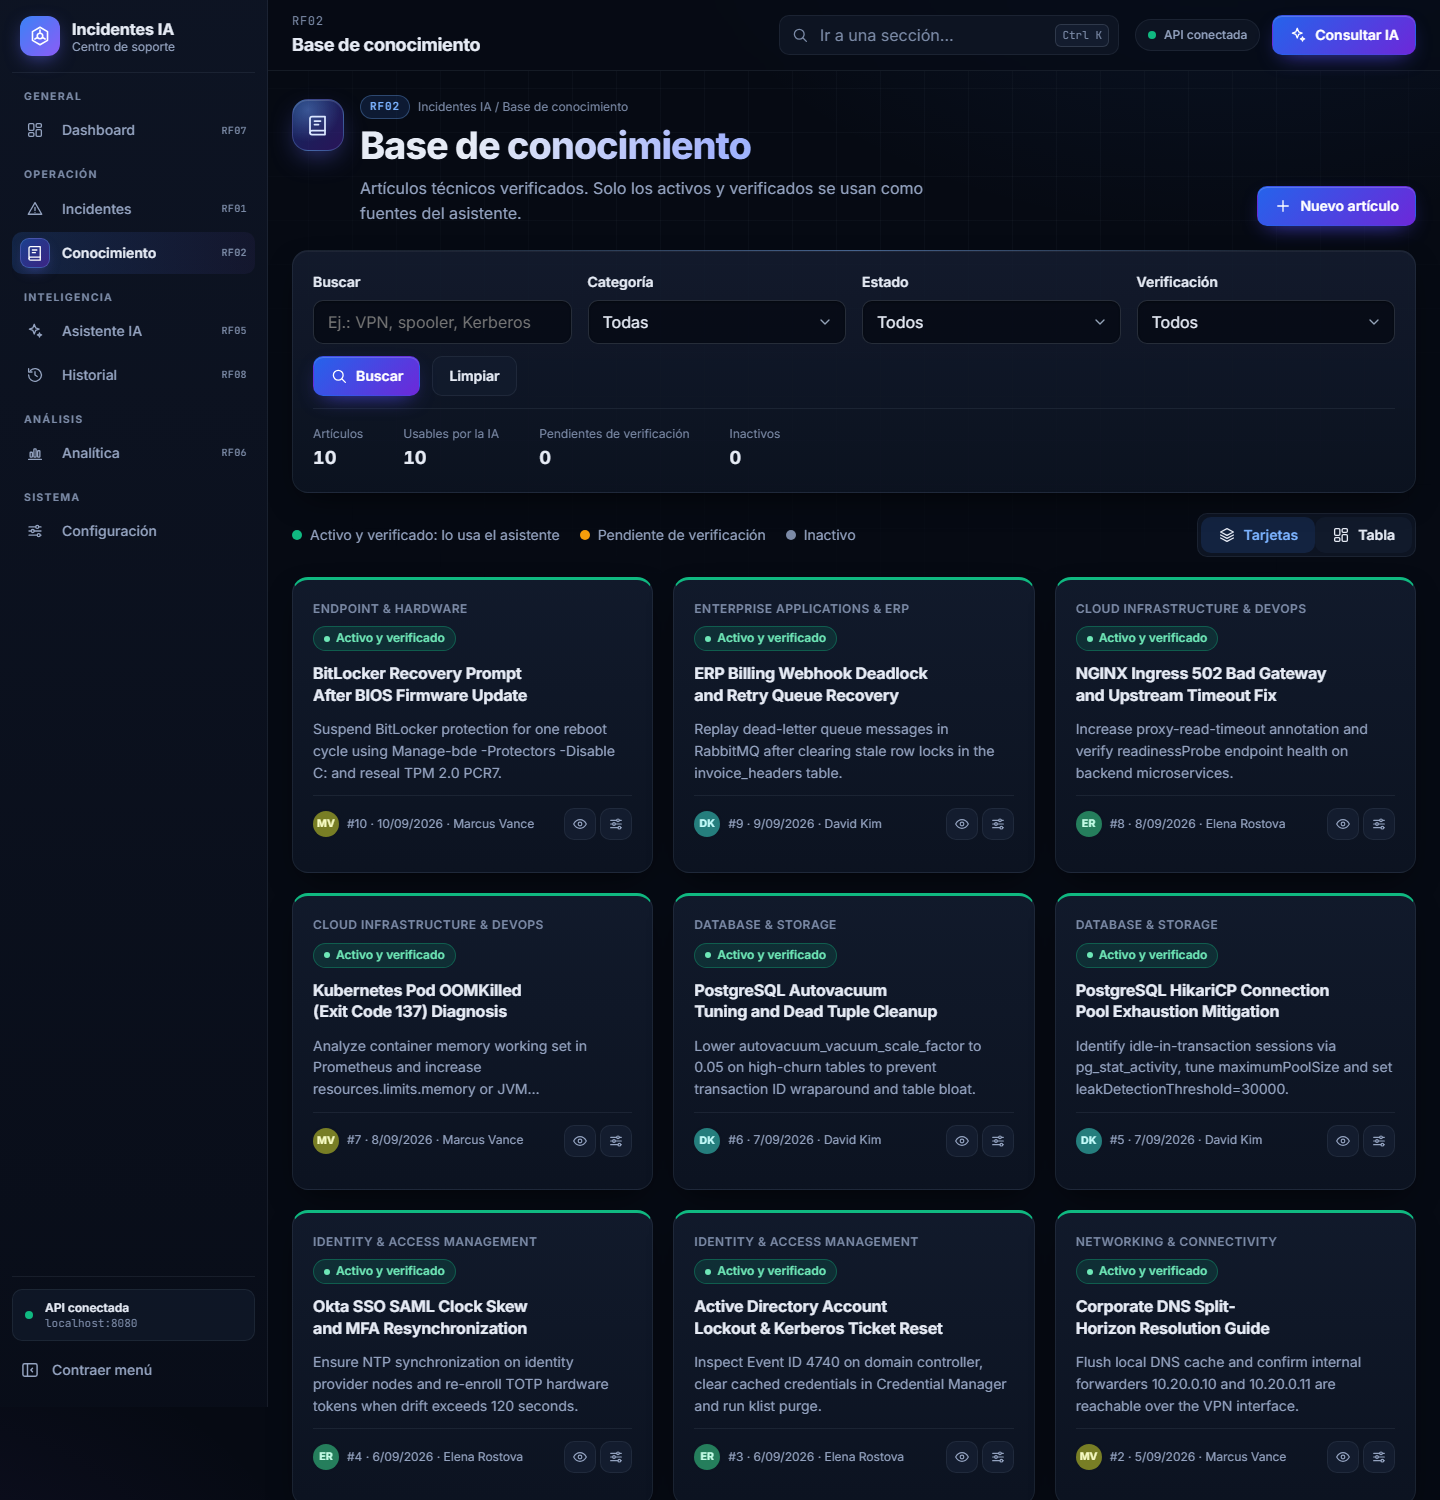
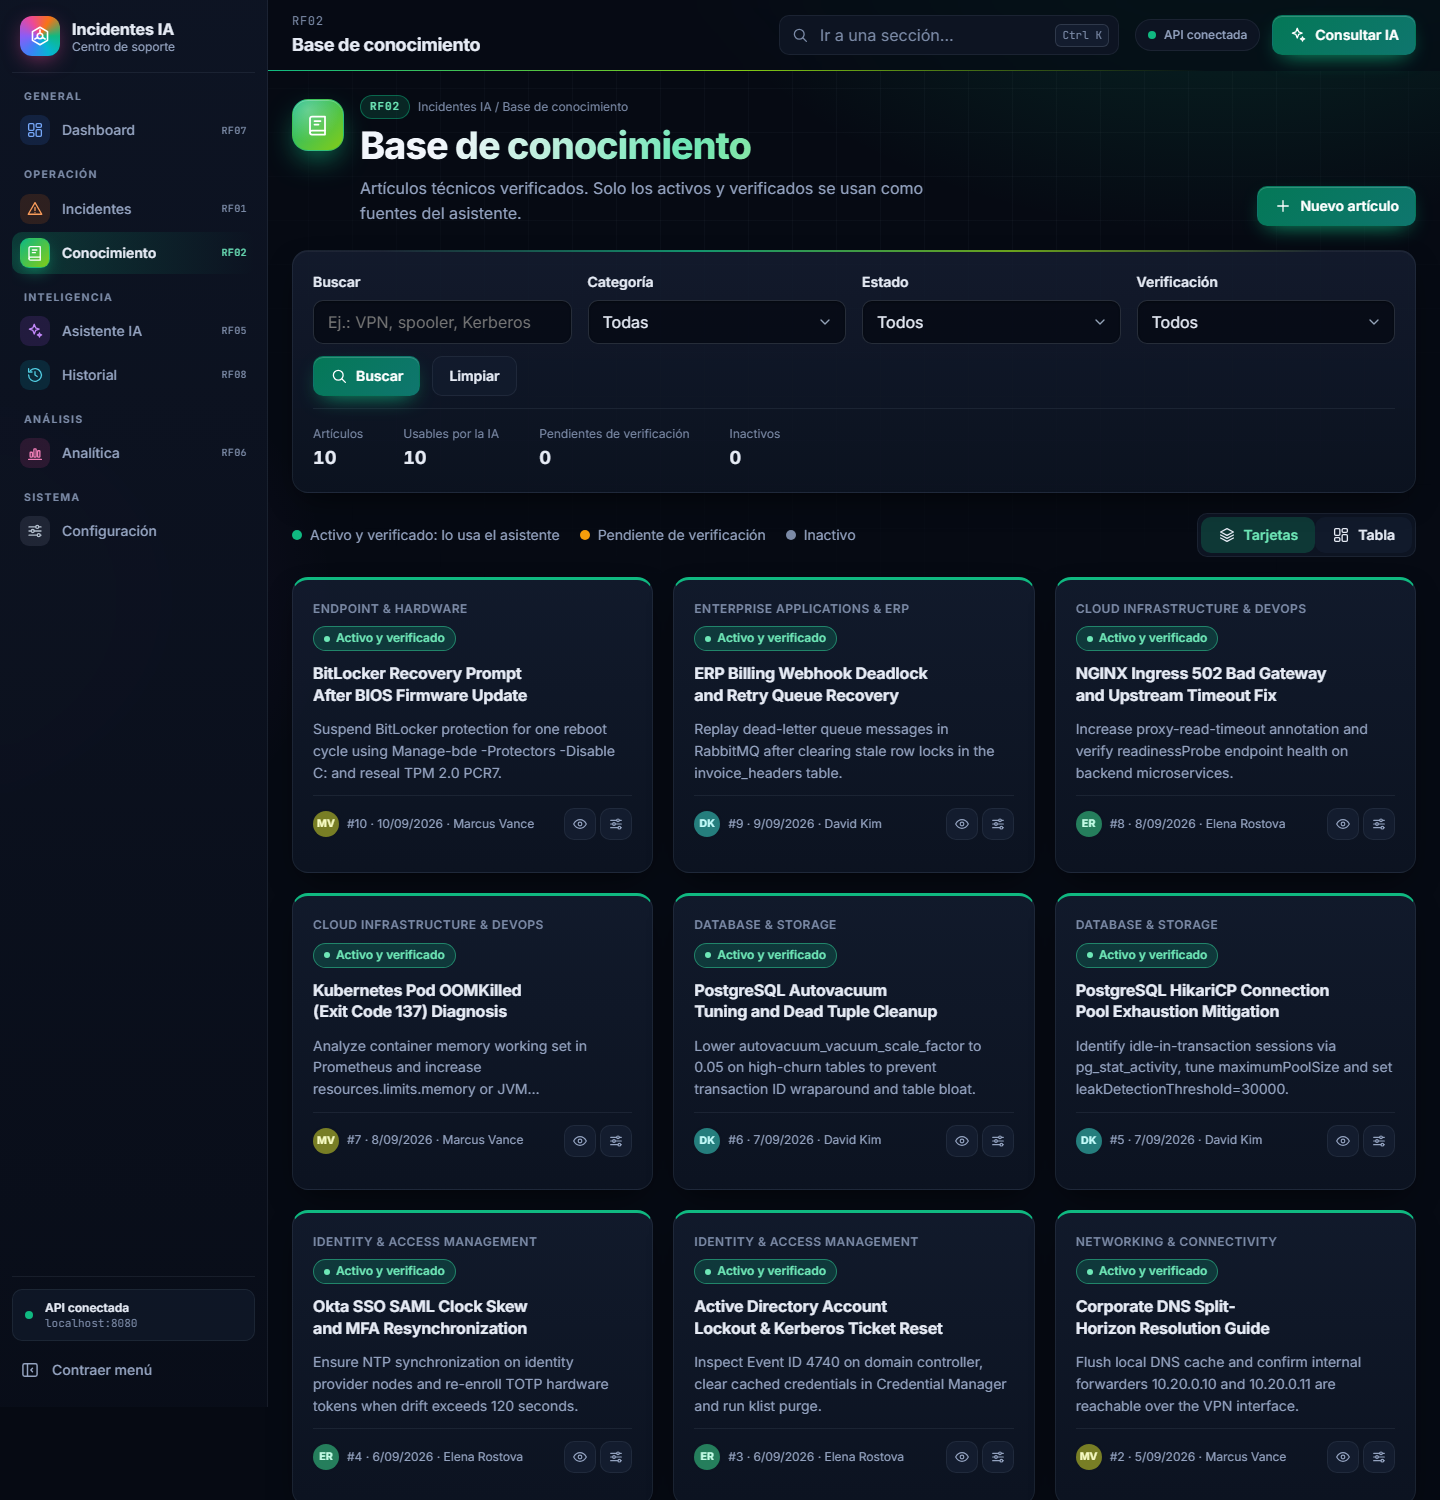
feat(frontend): give each module its own accent color
Add a color layer (css/color.css) driven by the active route: sidebar items, page headers, cards, primary buttons, table headers and empty states take the module's hue. KPI cards get tinted backgrounds, colored icons and new info/pink tones; badges and the dashboard hero are more vivid. Evidence screenshots refreshed.

diff --git a/frontend/css/color.css b/frontend/css/color.css
@@ -1,0 +1,279 @@
+/* ==========================================================
+   Capa de color: cada módulo tiene su propio acento.
+   El router pone <html data-module="ruta"> y esta hoja ajusta
+   la sidebar, el encabezado, las tarjetas y los botones.
+   Se carga al final para sobrescribir los estilos base.
+   ========================================================== */
+
+/* ---------- Paleta por módulo ----------
+   --module / --module-2: acento y su pareja del degradado.
+   --module-text: versión clara para texto sobre fondo oscuro (AA).
+   --module-btn: tonos oscuros para el botón (texto blanco AA). */
+:root {
+  --module: #3b82f6;
+  --module-2: #06b6d4;
+  --module-text: #93c5fd;
+  --module-btn: linear-gradient(135deg, #2563eb 0%, #0e7490 100%);
+
+  --info: #06b6d4;
+  --info-text: #67e8f9;
+  --info-soft: rgba(6, 182, 212, 0.16);
+  --pink: #ec4899;
+  --pink-text: #f9a8d4;
+  --pink-soft: rgba(236, 72, 153, 0.16);
+
+  /* Fondo con más color */
+  --glow-primary: rgba(59, 130, 246, 0.18);
+  --glow-accent: rgba(168, 85, 247, 0.16);
+}
+
+:root[data-module="incidentes"] {
+  --module: #f97316;
+  --module-2: #f43f5e;
+  --module-text: #fdba74;
+  --module-btn: linear-gradient(135deg, #c2410c 0%, #be123c 100%);
+}
+
+:root[data-module="conocimiento"] {
+  --module: #10b981;
+  --module-2: #84cc16;
+  --module-text: #6ee7b7;
+  --module-btn: linear-gradient(135deg, #047857 0%, #0f766e 100%);
+}
+
+:root[data-module="asistente"] {
+  --module: #a855f7;
+  --module-2: #ec4899;
+  --module-text: #d8b4fe;
+  --module-btn: linear-gradient(135deg, #7e22ce 0%, #be185d 100%);
+}
+
+:root[data-module="historial"] {
+  --module: #06b6d4;
+  --module-2: #6366f1;
+  --module-text: #67e8f9;
+  --module-btn: linear-gradient(135deg, #0e7490 0%, #4338ca 100%);
+}
+
+:root[data-module="analitica"] {
+  --module: #ec4899;
+  --module-2: #f59e0b;
+  --module-text: #f9a8d4;
+  --module-btn: linear-gradient(135deg, #be185d 0%, #b45309 100%);
+}
+
+:root[data-module="configuracion"],
+:root[data-module="componentes"] {
+  --module: #64748b;
+  --module-2: #3b82f6;
+  --module-text: #cbd5e1;
+  --module-btn: linear-gradient(135deg, #475569 0%, #1d4ed8 100%);
+}
+
+/* ---------- Fondo ---------- */
+body {
+  background-image:
+    radial-gradient(60rem 40rem at 85% -10%, color-mix(in srgb, var(--module) 22%, transparent), transparent 60%),
+    radial-gradient(45rem 32rem at 40% 120%, color-mix(in srgb, var(--module-2) 14%, transparent), transparent 60%),
+    radial-gradient(50rem 35rem at -10% 40%, var(--glow-accent), transparent 60%);
+  transition: background-image var(--dur-slow);
+}
+
+/* Franja de color bajo la barra superior */
+.topbar {
+  border-image: linear-gradient(90deg, var(--module), var(--module-2), transparent 80%) 1;
+}
+
+/* ---------- Marca ---------- */
+.brand-mark {
+  background: conic-gradient(from 210deg, #3b82f6, #8b5cf6, #ec4899, #f97316, #10b981, #06b6d4, #3b82f6);
+  box-shadow: 0 6px 22px -6px rgba(236, 72, 153, 0.7);
+}
+
+/* ---------- Sidebar: cada sección con su color ---------- */
+.nav-link { --nav: #3b82f6; --nav-2: #06b6d4; }
+.nav-link[data-route="incidentes"] { --nav: #f97316; --nav-2: #f43f5e; }
+.nav-link[data-route="conocimiento"] { --nav: #10b981; --nav-2: #84cc16; }
+.nav-link[data-route="asistente"] { --nav: #a855f7; --nav-2: #ec4899; }
+.nav-link[data-route="historial"] { --nav: #06b6d4; --nav-2: #6366f1; }
+.nav-link[data-route="analitica"] { --nav: #ec4899; --nav-2: #f59e0b; }
+.nav-link[data-route="configuracion"] { --nav: #94a3b8; --nav-2: #3b82f6; }
+
+.nav-link__icon {
+  background: color-mix(in srgb, var(--nav) 14%, transparent);
+  color: color-mix(in srgb, var(--nav) 70%, #fff);
+}
+
+.nav-link:hover .nav-link__icon {
+  border-color: color-mix(in srgb, var(--nav) 40%, transparent);
+  background: color-mix(in srgb, var(--nav) 24%, transparent);
+}
+
+.nav-link[aria-current="page"] {
+  background: linear-gradient(90deg, color-mix(in srgb, var(--nav) 22%, transparent), transparent);
+}
+
+.nav-link[aria-current="page"] .nav-link__icon {
+  border-color: color-mix(in srgb, var(--nav) 55%, transparent);
+  background: linear-gradient(135deg, var(--nav), var(--nav-2));
+  box-shadow: 0 6px 18px -6px var(--nav);
+}
+
+.nav-link[aria-current="page"]::before {
+  background: linear-gradient(180deg, var(--nav), var(--nav-2));
+  box-shadow: 0 0 14px var(--nav);
+}
+
+.nav-link[aria-current="page"] .nav-link__rf {
+  color: color-mix(in srgb, var(--nav) 65%, #fff);
+}
+
+/* ---------- Encabezado de página ---------- */
+.page-header__icon {
+  border-color: color-mix(in srgb, var(--module) 45%, transparent);
+  background:
+    radial-gradient(circle at 30% 20%, rgba(255, 255, 255, 0.28), transparent 60%),
+    linear-gradient(135deg, var(--module), var(--module-2));
+  color: #fff;
+  box-shadow: 0 12px 32px -10px var(--module), inset 0 1px 0 rgba(255, 255, 255, 0.25);
+}
+
+.page-header__eyebrow {
+  border-color: color-mix(in srgb, var(--module) 45%, transparent);
+  background: color-mix(in srgb, var(--module) 16%, transparent);
+  color: var(--module-text);
+}
+
+.page-title {
+  background: linear-gradient(120deg, #f1f5fb 15%, var(--module-text) 55%, color-mix(in srgb, var(--module-2) 60%, #fff) 100%);
+  -webkit-background-clip: text;
+  background-clip: text;
+}
+
+/* ---------- Tarjetas ---------- */
+.card::before {
+  left: 8%;
+  right: 8%;
+  height: 2px;
+  background: linear-gradient(90deg, transparent, var(--module), var(--module-2), transparent);
+  opacity: 0.75;
+}
+
+/* ---------- Botón principal con el color del módulo ---------- */
+.btn--primary {
+  background: var(--module-btn);
+  box-shadow:
+    inset 0 1px 0 rgba(255, 255, 255, 0.18),
+    0 8px 22px -10px var(--module);
+}
+
+.btn--primary:hover {
+  box-shadow:
+    inset 0 1px 0 rgba(255, 255, 255, 0.18),
+    0 12px 30px -8px var(--module);
+}
+
+/* Foco y controles de formulario */
+.input:focus,
+.input:focus-visible {
+  border-color: var(--module);
+  box-shadow: 0 0 0 3px color-mix(in srgb, var(--module) 25%, transparent);
+}
+
+input[type="checkbox"],
+input[type="radio"] {
+  accent-color: var(--module);
+}
+
+/* ---------- KPI: fondo tintado, filo y valor de color ---------- */
+.kpi[data-tone="info"] { --kpi-color: var(--info); --kpi-soft: var(--info-soft); }
+.kpi[data-tone="pink"] { --kpi-color: var(--pink); --kpi-soft: var(--pink-soft); }
+
+.kpi {
+  border-color: color-mix(in srgb, var(--kpi-color) 22%, transparent);
+  background:
+    linear-gradient(160deg, color-mix(in srgb, var(--kpi-color) 14%, transparent) 0%, transparent 55%),
+    linear-gradient(180deg, rgba(20, 29, 48, 0.88), rgba(14, 21, 36, 0.88));
+}
+
+.kpi::after {
+  content: "";
+  position: absolute;
+  top: 0;
+  left: 0;
+  right: 0;
+  height: 3px;
+  background: linear-gradient(90deg, var(--kpi-color), color-mix(in srgb, var(--kpi-color) 40%, #fff), transparent);
+  pointer-events: none;
+}
+
+.kpi::before {
+  background: radial-gradient(circle, color-mix(in srgb, var(--kpi-color) 30%, transparent), transparent 70%);
+}
+
+.kpi__icon {
+  background: linear-gradient(135deg, var(--kpi-color), color-mix(in srgb, var(--kpi-color) 55%, #000));
+  color: #fff;
+  box-shadow: 0 8px 18px -8px var(--kpi-color);
+}
+
+.kpi__value {
+  background: linear-gradient(120deg, #fff 30%, color-mix(in srgb, var(--kpi-color) 55%, #fff));
+  -webkit-background-clip: text;
+  background-clip: text;
+  color: transparent;
+}
+
+/* ---------- Tablas ---------- */
+.table th {
+  background:
+    linear-gradient(90deg, color-mix(in srgb, var(--module) 14%, transparent), color-mix(in srgb, var(--module-2) 6%, transparent)),
+    rgba(13, 20, 34, 0.96);
+  color: var(--module-text);
+  border-bottom-color: color-mix(in srgb, var(--module) 35%, transparent);
+}
+
+.table tbody tr:hover td {
+  background: color-mix(in srgb, var(--module) 7%, transparent);
+}
+
+/* ---------- Insignias más vivas ---------- */
+.badge--info { background: rgba(59, 130, 246, 0.2); border-color: rgba(96, 165, 250, 0.5); color: #93c5fd; }
+.badge--accent { background: rgba(168, 85, 247, 0.2); border-color: rgba(192, 132, 252, 0.5); color: #d8b4fe; }
+.badge--success { background: rgba(16, 185, 129, 0.2); border-color: rgba(52, 211, 153, 0.5); color: #6ee7b7; }
+.badge--warning { background: rgba(245, 158, 11, 0.2); border-color: rgba(251, 191, 36, 0.5); color: #fcd34d; }
+.badge--danger { background: rgba(239, 68, 68, 0.22); border-color: rgba(248, 113, 113, 0.55); color: #fca5a5; }
+.badge--neutral { background: rgba(100, 116, 139, 0.2); border-color: rgba(148, 163, 184, 0.4); }
+
+/* ---------- Dashboard: héroe multicolor ---------- */
+.hero {
+  border-color: rgba(236, 72, 153, 0.28);
+  background:
+    radial-gradient(36rem 20rem at 0% 0%, rgba(59, 130, 246, 0.38), transparent 60%),
+    radial-gradient(28rem 18rem at 55% 120%, rgba(16, 185, 129, 0.22), transparent 60%),
+    radial-gradient(30rem 18rem at 100% 0%, rgba(236, 72, 153, 0.3), transparent 60%),
+    linear-gradient(135deg, rgba(17, 26, 46, 0.95), rgba(12, 18, 32, 0.95));
+}
+
+/* ---------- Avatar del asistente con los colores del módulo ---------- */
+.ai-avatar {
+  background: linear-gradient(135deg, #a855f7, #ec4899);
+  color: #fff;
+}
+
+/* ---------- Selector Tarjetas/Tabla y estados vacíos ---------- */
+.segmented-toggle .btn[aria-pressed="true"] {
+  background: color-mix(in srgb, var(--module) 22%, transparent);
+  border-color: color-mix(in srgb, var(--module) 50%, transparent);
+  color: var(--module-text);
+}
+
+.empty-state__icon:not(.empty-state__icon--danger) {
+  border-color: color-mix(in srgb, var(--module) 40%, transparent);
+  background: linear-gradient(135deg, color-mix(in srgb, var(--module) 30%, transparent), color-mix(in srgb, var(--module-2) 22%, transparent));
+  color: var(--module-text);
+}
+
+@media (prefers-reduced-motion: reduce) {
+  body { transition: none; }
+}

diff --git a/frontend/js/views/dashboard.js b/frontend/js/views/dashboard.js
@@ -141,9 +141,9 @@ export async function render(container, { route, signal }) {
         ${kpiCard({ label: 'Resueltos o cerrados', value: d.resolvedIncidents, icon: 'i-check-circle', tone: 'success', spark: resolved, trend: trend(d.resolvedIncidents, p?.resolvedIncidents, 'up') })}
         ${kpiCard({ label: 'Porcentaje de resolución', value: d.resolutionRatePercentage, format: 'percent', icon: 'i-percent', tone: 'accent',
           spark: rate, progress: d.resolutionRatePercentage, trend: trend(d.resolutionRatePercentage, p?.resolutionRatePercentage, 'up') })}
-        ${kpiCard({ label: 'Tiempo promedio de atención', value: d.averageResolutionTimeHours, format: 'duration', icon: 'i-clock',
+        ${kpiCard({ label: 'Tiempo promedio de atención', value: d.averageResolutionTimeHours, format: 'duration', icon: 'i-clock', tone: 'info',
           trend: trend(d.averageResolutionTimeHours, p?.averageResolutionTimeHours, 'down'), hint: prev ? '' : 'Desde el registro hasta la resolución' })}
-        ${kpiCard({ label: 'Calificación de la IA', value: d.averageAiRatingScore || null, icon: 'i-star', tone: 'accent', hint: 'Promedio sobre 5 estrellas' })}
+        ${kpiCard({ label: 'Calificación de la IA', value: d.averageAiRatingScore || null, icon: 'i-star', tone: 'pink', hint: 'Promedio sobre 5 estrellas' })}
       </div>`;
   }
 

diff --git a/frontend/js/views/analitica.js b/frontend/js/views/analitica.js
@@ -70,7 +70,7 @@ export async function render(container, { route, signal }) {
         ${kpiCard({ label: 'Resueltos o cerrados', value: dashboard.resolvedIncidents, icon: 'i-check-circle', tone: 'success' })}
         ${kpiCard({ label: 'Pendientes', value: dist.pending, icon: 'i-hourglass', tone: 'warning' })}
         ${kpiCard({ label: 'Porcentaje de resolución', value: dashboard.resolutionRatePercentage, format: 'percent', icon: 'i-percent', tone: 'accent', progress: dashboard.resolutionRatePercentage })}
-        ${kpiCard({ label: 'Tiempo promedio de atención', value: dashboard.averageResolutionTimeHours, format: 'duration', icon: 'i-clock' })}
+        ${kpiCard({ label: 'Tiempo promedio de atención', value: dashboard.averageResolutionTimeHours, format: 'duration', icon: 'i-clock', tone: 'info' })}
         ${kpiCard({ label: 'Críticos sin resolver', value: dist.critical, icon: 'i-alert', tone: 'danger' })}
       </div>`;
     animateCounters(kpis);

diff --git a/frontend/js/components/kpi-card.js b/frontend/js/components/kpi-card.js
@@ -39,7 +39,7 @@ function trendHtml(trend) {
  * @param {number|null} o.value Valor real recibido del backend.
  * @param {'number'|'percent'|'duration'} [o.format]
  * @param {string} o.icon      Id del icono del sprite.
- * @param {'primary'|'accent'|'success'|'warning'|'danger'} [o.tone]
+ * @param {'primary'|'accent'|'success'|'warning'|'danger'|'info'|'pink'} [o.tone]
  * @param {{delta:number, goodWhen?:'up'|'down', period?:string}} [o.trend]
  *        Variación porcentual frente al periodo anterior (si hay histórico).
  * @param {number} [o.progress] 0–100: dibuja una barra de progreso.

diff --git a/frontend/js/router.js b/frontend/js/router.js
@@ -31,6 +31,8 @@ function updateChrome(route) {
     if (link.dataset.route === route.path) link.setAttribute('aria-current', 'page');
     else link.removeAttribute('aria-current');
   });
+  // Cada módulo tiene su propio color de acento (css/color.css)
+  document.documentElement.dataset.module = route.path;
   titleEl.textContent = route.title;
   eyebrowEl.textContent = route.rf ?? 'Sistema';
   document.title = `${route.title} · Incidentes IA`;

diff --git a/frontend/index.html b/frontend/index.html
@@ -20,6 +20,7 @@
   <link rel="stylesheet" href="css/widgets.css">
   <link rel="stylesheet" href="css/modules.css">
   <link rel="stylesheet" href="css/responsive.css">
+  <link rel="stylesheet" href="css/color.css">
 
   <script type="module" src="js/app.js"></script>
 </head>
